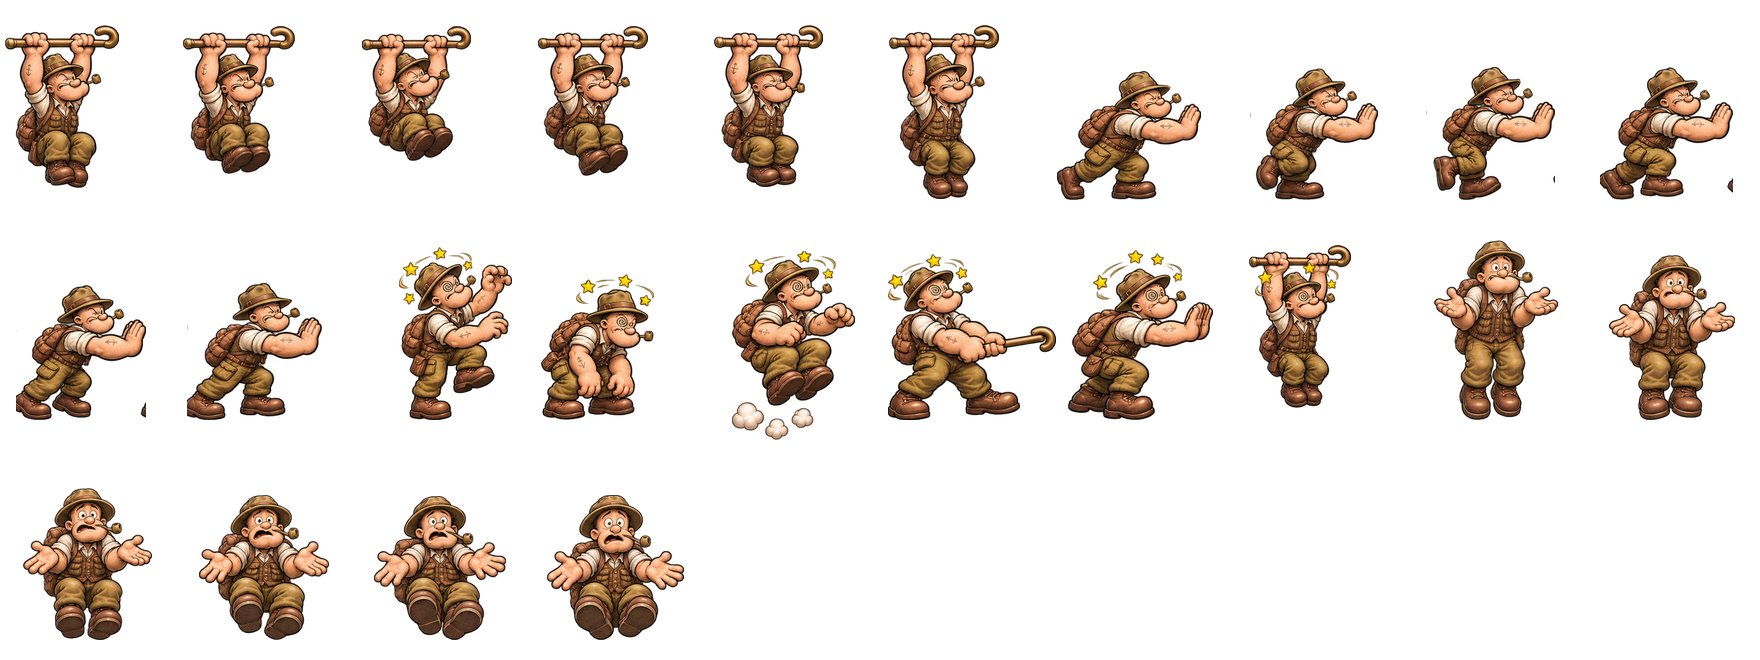
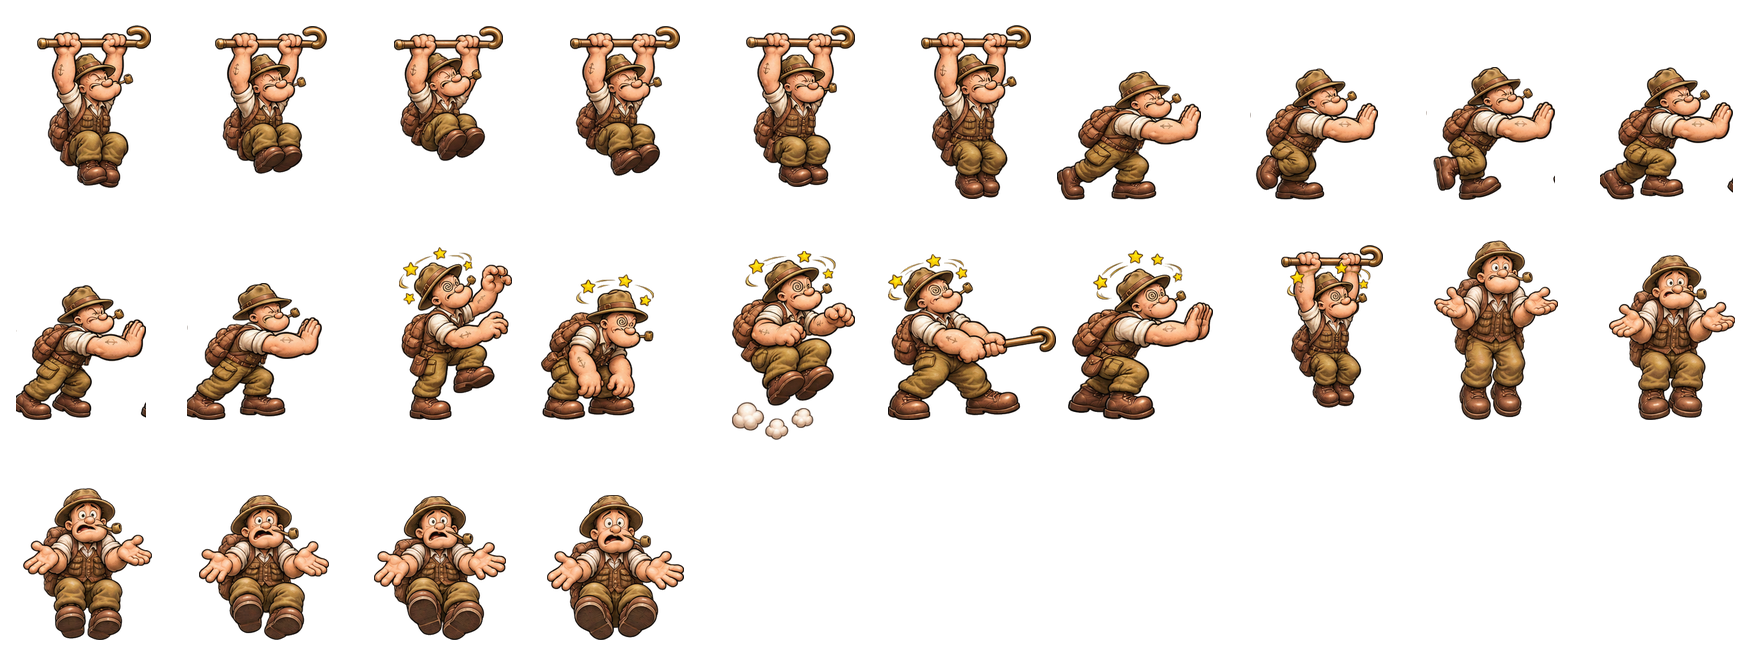
v0.38: asılınca gövde taşa yaslanır, kanca taşın içine girer
Claude-Session: https://claude.ai/code/session_015fAnPKUucX6WRC71BPvNkG

Changed region(s): [[0.0, 0.0303, 0.5938, 0.303], [0.6875, 0.3636, 0.7812, 0.6364]]

diff --git a/oyuncu.js b/oyuncu.js
@@ -82,7 +82,11 @@ Object.assign(GameScene.prototype, {
       }
     } else if (!yerde && this.asiliBekle <= 0 && b.velocity.y > 0 && this.knock <= 0 && !this.pogoModu) {
       const y = k.sag && !k.sol ? 1 : (k.sol && !k.sag ? -1 : 0);
-      if (y && this.kancaDuvar(y)) {
+      const duvar = y ? this.kancaDuvar(y) : null;
+      if (duvar) {
+        // Gövdeyi taşa yasla (arada boşluk kalmasın); kanca görselde taşın içine girer
+        const dx = y > 0 ? duvar.left - b.right : duvar.right - b.left;
+        p.x += dx; b.position.x += dx;
         this.asili = y; this.asiliSon = y; this.bakis = y; p.setFlipX(y < 0);
         b.setAllowGravity(false); b.setVelocity(0, 0);
         this.pogoModu = false; this.pogoAktif = false; this.saldiriZaman = 0;

diff --git a/game.js b/game.js
@@ -334,7 +334,7 @@ class GameScene extends Phaser.Scene {
     const x = yon > 0 ? b.right : b.left - 2;
     if (y0 === undefined) { y0 = b.y + 4; h = b.height - 8; }
     return this.physics.overlapRect(x, y0, 2, h, false, true)
-      .some(o => o.gameObject && (this.solids.contains(o.gameObject) || this.takozlar.contains(o.gameObject)));
+      .find(o => o.gameObject && (this.solids.contains(o.gameObject) || this.takozlar.contains(o.gameObject))) || null;
   }
 
   // Asılma kancası (baston) önündeki taşa değiyor mu: kanca ayakların CONFIG.oyuncu.kancaY px üstünde

diff --git a/config.js b/config.js
@@ -1,6 +1,6 @@
 // Popeye Tales (Atari) - ayarlar
 const CONFIG = {
-  surum: "v0.37",
+  surum: "v0.38",
   tile: 32,
   bayrakBoy: 57.6,      // kontrol noktası bayrağı (v0.33: %10 küçük, 64 → 57.6)
   dusmanOlcek: 0.9,     // v0.32: tüm düşmanlar %10 küçük (görsel + gövde)

diff --git a/araclar/oyuncuEk.py b/araclar/oyuncuEk.py
@@ -41,7 +41,7 @@ def baston(arr):   # bastonun (figürün en üst 14 satırı) üstü ve sağ ucu
     return t, np.where(b[t:t + 14].any(0))[0][-1]
 ASILI = [0, 1, 2, 3, 4, 5, 17]
 ASILI_BOY = max(round(kareler[i][0].shape[0] * OLCEK * (kareler[i][2] if len(kareler[i]) > 2 else 1)) for i in ASILI[:6])
-KANCA_X = 88 + 30
+KANCA_X = 88 + 62   # v0.38: baston ucu gövdenin ~10 px önünde → kanca taşın içine girer
 for n, k in enumerate(kareler):
     arr, alt = k[0], k[1]
     o = OLCEK * (k[2] if len(k) > 2 else 1)

diff --git a/OYUN.md b/OYUN.md
@@ -1,6 +1,6 @@
 # Popeye Tales (Atari) — OYUN.md
 
-Sürüm: v0.37 (`config.js` → `surum`)
+Sürüm: v0.38 (`config.js` → `surum`)
 Motor: Phaser 3.80.1 (CDN), Arcade Physics.
 Görseller (v0.05, yeni set): zemin ve arka plan tek bir karo setinde (`assets/tileset.png`, 64 px kaynak, oyunda 32 px); objeler `assets/*.png` (platform parçaları, sarmaşık/ip/merdiven/zincir, kasa, taş blok, kırmızı takoz, dikenler, sandık, kapı, bayrak). Ana karakter (v0.14): `assets/oyuncu.png` sprite sheet (aşağıda). Düşmanlar (v0.24) ve toplanabilirler (v0.29): kullanıcı görseli. Arayüz hâlâ yer tutucu (renkli şekiller, `boot.js`).
 
@@ -46,7 +46,7 @@ Not: görseller dosyadan yüklendiği için oyun `file://` ile değil bir web ad
 
 ## Yeni hareketler (v0.33)
 - Ek kareler `assets/oyuncu2.png` (`python3 araclar/oyuncuEk.py`; kaynak `assets/kaynak/oyuncu_ek.png` + `oyuncu_asiliHasar.png`): 10 sütun, hücre 176×220, ayak çizgisi y=200, ana sayfayla aynı ölçek (şapka genişliği eşitlendi). `CONFIG.oyuncu.kare2`. v0.34: oyunda hepsi %30 küçük çizilir (`animOlcek` 0.7).
-- **Bastonla duvara asılma** (`asili`, kare 0–5; v0.36: kareler bastona göre hizalı → baston takıldığı yerde sabit, sadece gövde sallanır): havada aşağı düşerken duvara doğru basılıysa ve **baston kancası** (ayakların `CONFIG.oyuncu.kancaY` 52 px üstü, v0.35) önündeki taşa değiyorsa takılır; sadece kafa/bacak değiyorsa düşmeye devam eder ve kancanın taşa ilk değdiği yerde durur (yerçekimi kapalı). Zıpla → duvardan uzağa sıçrar (`CONFIG.fizik.asiliZipla` 160, tam zıplama, 0.15 sn yatay kilit); ters yön, ↓ veya duvar biterse bırakır (0.25 sn tekrar takılmaz).
+- **Bastonla duvara asılma** (`asili`, kare 0–5; v0.36: kareler bastona göre hizalı → baston takıldığı yerde sabit, sadece gövde sallanır; v0.38: takılınca gövde taşa yaslanır ve baston ucu ~10 px taşın içine girer): havada aşağı düşerken duvara doğru basılıysa ve **baston kancası** (ayakların `CONFIG.oyuncu.kancaY` 52 px üstü, v0.35) önündeki taşa değiyorsa takılır; sadece kafa/bacak değiyorsa düşmeye devam eder ve kancanın taşa ilk değdiği yerde durur (yerçekimi kapalı). Zıpla → duvardan uzağa sıçrar (`CONFIG.fizik.asiliZipla` 160, tam zıplama, 0.15 sn yatay kilit); ters yön, ↓ veya duvar biterse bırakır (0.25 sn tekrar takılmaz).
 - **İtme** (`it`, kare 6–11): yerde, önünde aynı zeminde bitişik sandık varsa yürüyerek yavaşça iter (`CONFIG.fizik.itme` 90 px/sn). Çekilebilen her şey itilebilir.
 - **Ölüm** (v0.37, `olum`, kare 18–23, kaynak `assets/kaynak/oyuncu_olum.png`): ölünce eski yukarı sıçrayıp aşağı düşme aynı, sırasında bu animasyon bir kez oynar ve son karesi sabit kalarak düşmeye devam eder (gri renk kaldırıldı).
 - **Duruma göre darbe karesi**: tırmanırken 12, eğikken 13, havada 14, çekerken 15, iterken 16, asılıyken 17. Yerde ayaktayken eski `sersem` (15–17 ana sayfa).
